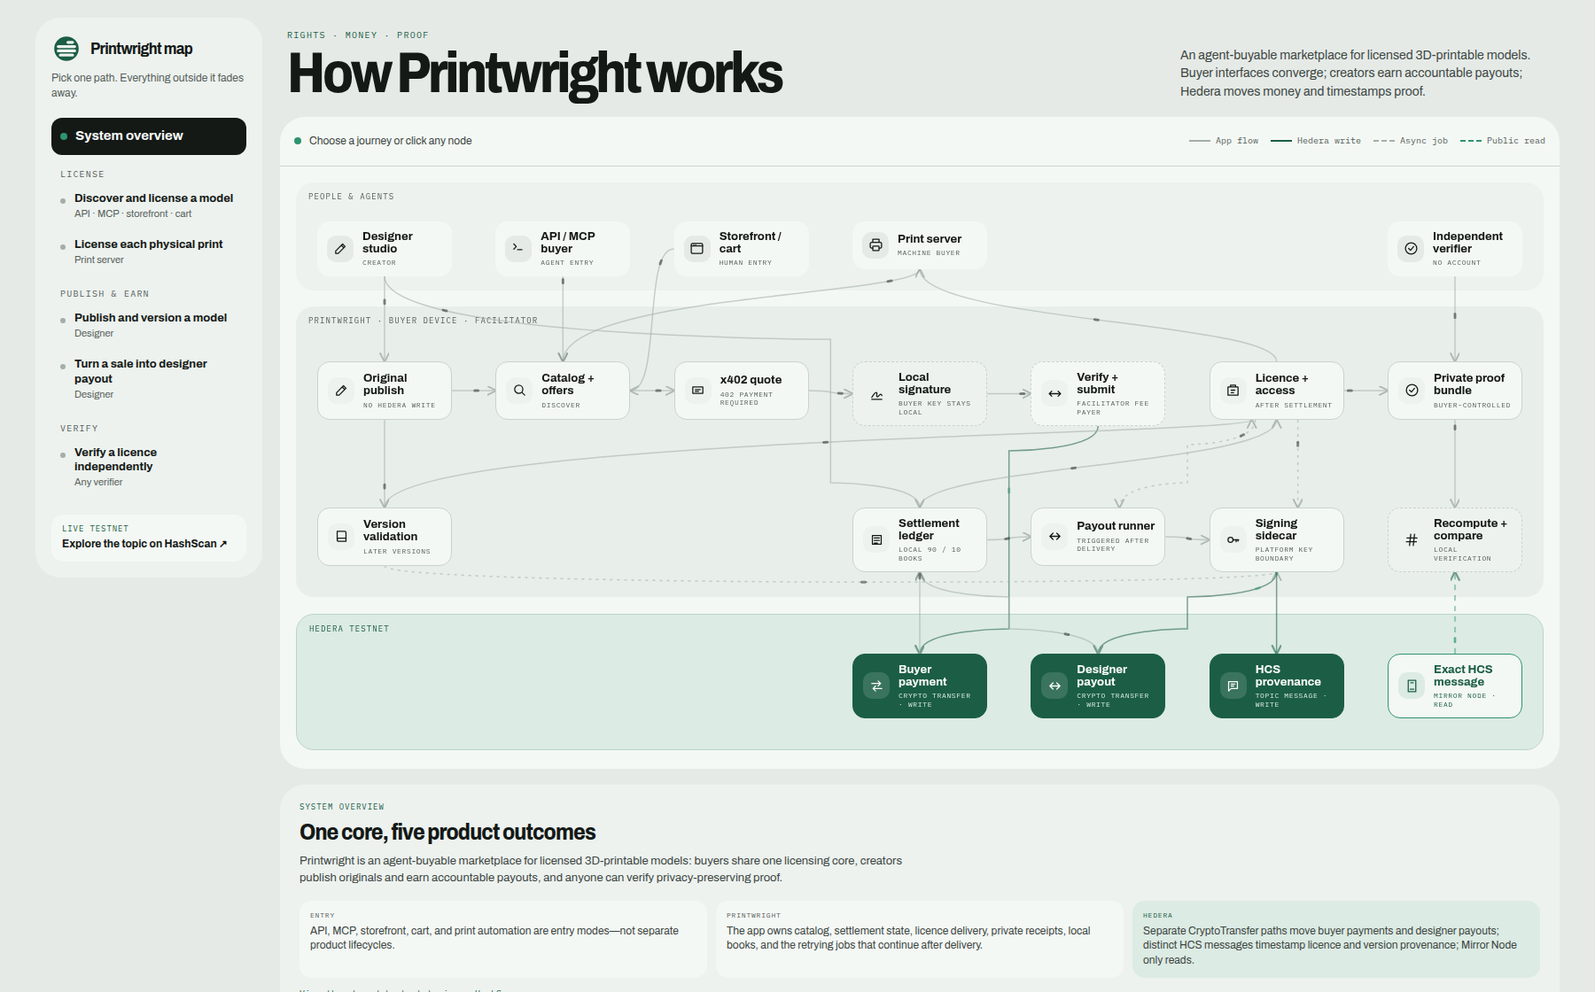
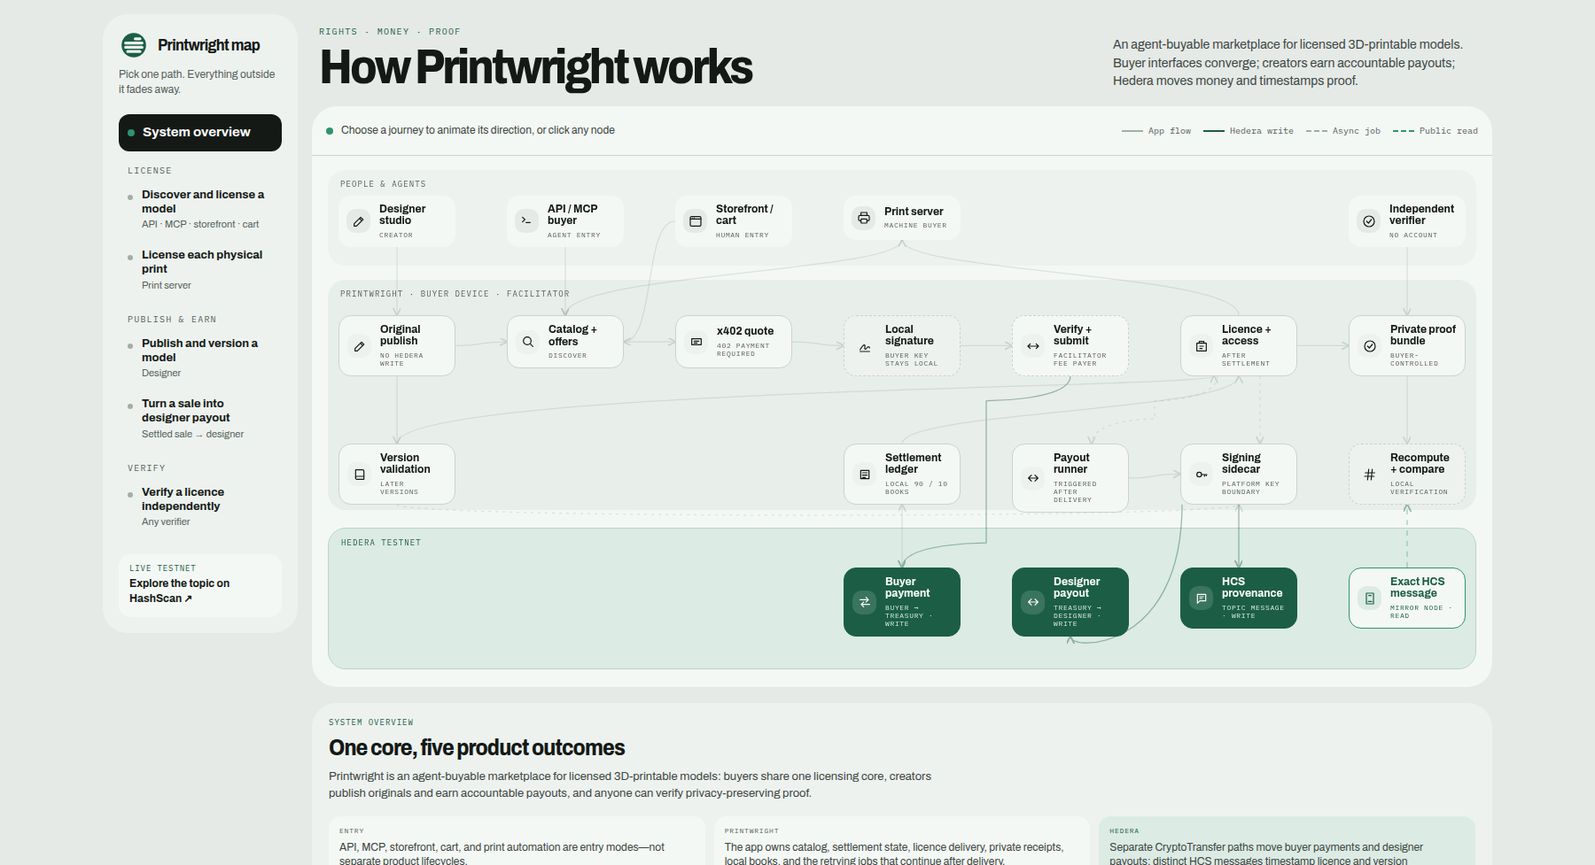
docs: fix journey map layout and motion

diff --git a/docs/journey-map.html b/docs/journey-map.html
@@ -79,21 +79,21 @@
 
   .shell {
     display: grid;
-    grid-template-columns: 256px minmax(0, 1fr);
-    gap: 20px;
-    width: min(1760px, 100%);
+    grid-template-columns: 220px minmax(0, 1fr);
+    gap: 16px;
+    width: min(1600px, 100%);
     min-height: 100vh;
     margin: 0 auto;
-    padding: 20px;
+    padding: 16px;
   }
 
   .rail {
     position: sticky;
-    top: 20px;
+    top: 16px;
     align-self: start;
     display: flex;
     flex-direction: column;
-    max-height: calc(100vh - 40px);
+    max-height: calc(100vh - 32px);
     overflow-y: auto;
     padding: 18px;
     background: var(--inset);
@@ -273,7 +273,7 @@
   h1 {
     max-width: 760px;
     margin: 0;
-    font-size: clamp(34px, 4.4vw, 64px);
+    font-size: clamp(32px, 3.8vw, 56px);
     font-weight: 770;
     font-stretch: 86%;
     line-height: 0.95;
@@ -364,8 +364,8 @@
   .map-canvas {
     position: relative;
     width: 100%;
-    min-width: 1400px;
-    height: 680px;
+    min-width: 1088px;
+    height: 600px;
     isolation: isolate;
   }
 
@@ -387,20 +387,20 @@
   }
 
   .lane.actors {
-    top: 18px;
-    height: 122px;
+    top: 16px;
+    height: 108px;
     background: var(--inset);
   }
 
   .lane.app {
-    top: 158px;
-    height: 328px;
+    top: 140px;
+    height: 260px;
     background: #e8eeea;
   }
 
   .lane.hedera {
-    top: 505px;
-    height: 154px;
+    top: 420px;
+    height: 160px;
     background: var(--chain-soft);
     border: 1px solid #b9d5c8;
   }
@@ -449,15 +449,26 @@
     opacity: 1;
   }
 
+  .map-canvas.is-overview .edge {
+    stroke-width: 1.25;
+    opacity: 0.3;
+  }
+
+  .map-canvas.is-overview .edge.chain,
+  .map-canvas.is-overview .edge.read {
+    opacity: 0.42;
+  }
+
   .flow-overlay {
     fill: none;
     stroke: var(--text);
     stroke-width: 3;
     stroke-linecap: round;
-    opacity: 0.48;
+    opacity: 0;
     pointer-events: none;
     vector-effect: non-scaling-stroke;
     animation: edge-flow var(--flow-duration, 1800ms) linear infinite;
+    animation-play-state: paused;
     transition: opacity 180ms ease, stroke-width 180ms ease;
   }
 
@@ -474,6 +485,7 @@
   .flow-overlay.is-active {
     stroke-width: 3.5;
     opacity: 0.94;
+    animation-play-state: running;
   }
 
   @keyframes edge-flow {
@@ -491,9 +503,9 @@
     display: flex;
     align-items: center;
     gap: 10px;
-    width: 152px;
-    min-height: 66px;
-    padding: 10px 11px;
+    width: 132px;
+    min-height: 60px;
+    padding: 9px;
     background: var(--card);
     border: 1px solid var(--hairline);
     border-radius: var(--radius-sm);
@@ -508,7 +520,7 @@
   }
 
   .map-node.actor {
-    min-height: 54px;
+    min-height: 50px;
     border: 0;
   }
 
@@ -552,8 +564,8 @@
 
   .node-icon {
     display: grid;
-    width: 30px;
-    height: 30px;
+    width: 27px;
+    height: 27px;
     flex: 0 0 auto;
     place-items: center;
     background: var(--inset);
@@ -573,8 +585,8 @@
   }
 
   .node-icon svg {
-    width: 17px;
-    height: 17px;
+    width: 16px;
+    height: 16px;
     fill: none;
     stroke: currentColor;
     stroke-width: 1.8;
@@ -588,7 +600,7 @@
 
   .node-title {
     display: block;
-    font-size: 13px;
+    font-size: 12px;
     font-weight: 720;
     line-height: 1.1;
   }
@@ -611,9 +623,9 @@
   }
 
   .inspector {
-    min-height: 178px;
+    min-height: 160px;
     margin-top: 18px;
-    padding: 20px 22px;
+    padding: 17px 19px;
     background: var(--inset);
     border-radius: var(--radius-lg);
   }
@@ -752,7 +764,7 @@
     .flow-overlay { animation: none; opacity: 0; }
   }
 
-  @media (max-width: 980px) {
+  @media (max-width: 1320px) {
     .shell {
       display: block;
       padding: 12px;
@@ -886,7 +898,7 @@
 
     <section class="map-panel" aria-label="Interactive system map">
       <div class="map-topbar">
-        <div class="map-instruction">Choose a journey or click any node</div>
+        <div class="map-instruction">Choose a journey to animate its direction, or click any node</div>
         <div class="legend" aria-label="Map legend">
           <span class="legend-item"><span class="legend-line"></span> App flow</span>
           <span class="legend-item"><span class="legend-line chain"></span> Hedera write</span>
@@ -949,38 +961,37 @@
   };
 
   const NODES = [
-    { id: "designer", col: 0, y: 62, title: "Designer studio", meta: "CREATOR", icon: "designer", kind: "actor", summary: "Designers publish original printable bundles, validate later versions, inspect sales, and receive grouped payouts.", code: "app/controllers/designer/" },
-    { id: "agent", col: 1, y: 62, title: "API / MCP buyer", meta: "AGENT ENTRY", icon: "terminal", kind: "actor", summary: "API clients and MCP assistants enter the same purchase backend. MCP returns the licence, files, verification link, and covered-update capability.", code: "mcp/server.mjs · client/index.js" },
-    { id: "human", col: 2, y: 62, title: "Storefront / cart", meta: "HUMAN ENTRY", icon: "browser", kind: "actor", summary: "A browser buyer can buy one offer or approve one cart total; both call the shared download or batch API.", code: "checkout_controller.js · BatchesController" },
-    { id: "printer", col: 3, y: 62, title: "Print server", meta: "MACHINE BUYER", icon: "printer", kind: "actor", summary: "The print-job helper runs one commercial-unit purchase for each requested physical unit before it starts that job.", code: "scripts/print-job.mjs" },
-    { id: "verifier", col: 6, y: 62, title: "Independent verifier", meta: "NO ACCOUNT", icon: "verify", kind: "actor", summary: "Any holder of a disclosed proof bundle can check it without an account or a Printwright signing key.", code: "verifier/index.js · Certificates::MirrorCheck" },
+    { id: "designer", col: 0, y: 45, title: "Designer studio", meta: "CREATOR", icon: "designer", kind: "actor", summary: "Designers publish original printable bundles, validate later versions, inspect sales, and receive grouped payouts.", code: "app/controllers/designer/" },
+    { id: "agent", col: 1, y: 45, title: "API / MCP buyer", meta: "AGENT ENTRY", icon: "terminal", kind: "actor", summary: "API clients and MCP assistants enter the same purchase backend. MCP returns the licence, files, verification link, and covered-update capability.", code: "mcp/server.mjs · client/index.js" },
+    { id: "human", col: 2, y: 45, title: "Storefront / cart", meta: "HUMAN ENTRY", icon: "browser", kind: "actor", summary: "A browser buyer can buy one offer or approve one cart total; both call the shared download or batch API.", code: "checkout_controller.js · BatchesController" },
+    { id: "printer", col: 3, y: 45, title: "Print server", meta: "MACHINE BUYER", icon: "printer", kind: "actor", summary: "The print-job helper runs one commercial-unit purchase for each requested physical unit before it starts that job.", code: "scripts/print-job.mjs" },
+    { id: "verifier", col: 6, y: 45, title: "Independent verifier", meta: "NO ACCOUNT", icon: "verify", kind: "actor", summary: "Any holder of a disclosed proof bundle can check it without an account or a Printwright signing key.", code: "verifier/index.js · Certificates::MirrorCheck" },
 
-    { id: "workbench", col: 0, y: 220, title: "Original publish", meta: "NO HEDERA WRITE", icon: "designer", summary: "The designer uploads geometry and imagery, sets prices, accepts the ownership warranty, and publishes the original listing after local review.", code: "Designer::ModelsController · Models::PublishReview" },
-    { id: "catalog", col: 1, y: 220, title: "Catalog + offers", meta: "DISCOVER", icon: "search", summary: "Published models, printability facts, prices, and machine-readable personal or commercial-unit offers are public.", code: "StorefrontController · Api::V1::ModelsController" },
-    { id: "x402", col: 2, y: 220, title: "x402 quote", meta: "402 PAYMENT REQUIRED", icon: "quote", summary: "The protected single or batch resource returns exact HBAR or USDC requirements payable to the treasury.", code: "X402::Requirements · DownloadsController · BatchesController" },
-    { id: "signature", col: 3, y: 220, title: "Local signature", meta: "BUYER KEY STAYS LOCAL", icon: "signature", kind: "local", summary: "The buyer signs the exact Hedera TransferTransaction locally. Printwright never receives the buyer's private key.", code: "client/index.js · checkout_controller.js" },
-    { id: "facilitator", col: 4, y: 220, title: "Verify + submit", meta: "FACILITATOR FEE PAYER", icon: "bridge", kind: "bridge", summary: "The facilitator verifies the signed x402 payload, adds its separate fee-payer signature, submits it, and returns the result.", code: "FacilitatorClient · selfhost-facilitator/server.mjs" },
-    { id: "delivery", col: 5, y: 220, title: "Licence + access", meta: "AFTER SETTLEMENT", icon: "delivery", summary: "Printwright returns each licence, certificate, proof bundle, first file grant, durable receipt, and a separate updates capability. The receipt later authorizes fresh grants.", code: "DownloadsController#deliver · BatchesController#deliver · ModelVersionsController" },
-    { id: "proof", col: 6, y: 220, title: "Private proof bundle", meta: "BUYER-CONTROLLED", icon: "verify", summary: "The bundle contains the certificate, nonce, exact terms, and anchor state. It may say minting until the asynchronous HCS job succeeds.", code: "Certificates::Builder · Certificates::Bundle" },
+    { id: "workbench", col: 0, y: 180, title: "Original publish", meta: "NO HEDERA WRITE", icon: "designer", summary: "The designer uploads geometry and imagery, sets prices, accepts the ownership warranty, and publishes the original listing after local review.", code: "Designer::ModelsController · Models::PublishReview" },
+    { id: "catalog", col: 1, y: 180, title: "Catalog + offers", meta: "DISCOVER", icon: "search", summary: "Published models, printability facts, prices, and machine-readable personal or commercial-unit offers are public.", code: "StorefrontController · Api::V1::ModelsController" },
+    { id: "x402", col: 2, y: 180, title: "x402 quote", meta: "402 PAYMENT REQUIRED", icon: "quote", summary: "The protected single or batch resource returns exact HBAR or USDC requirements payable to the treasury.", code: "X402::Requirements · DownloadsController · BatchesController" },
+    { id: "signature", col: 3, y: 180, title: "Local signature", meta: "BUYER KEY STAYS LOCAL", icon: "signature", kind: "local", summary: "The buyer signs the exact Hedera TransferTransaction locally. Printwright never receives the buyer's private key.", code: "client/index.js · checkout_controller.js" },
+    { id: "facilitator", col: 4, y: 180, title: "Verify + submit", meta: "FACILITATOR FEE PAYER", icon: "bridge", kind: "bridge", summary: "The facilitator verifies the signed x402 payload, adds its separate fee-payer signature, submits it, and returns the result.", code: "FacilitatorClient · selfhost-facilitator/server.mjs" },
+    { id: "delivery", col: 5, y: 180, title: "Licence + access", meta: "AFTER SETTLEMENT", icon: "delivery", summary: "Printwright returns each licence, certificate, proof bundle, first file grant, durable receipt, and a separate updates capability. The receipt later authorizes fresh grants.", code: "DownloadsController#deliver · BatchesController#deliver · ModelVersionsController" },
+    { id: "proof", col: 6, y: 180, title: "Private proof bundle", meta: "BUYER-CONTROLLED", icon: "verify", summary: "The bundle contains the certificate, nonce, exact terms, and anchor state. It may say minting until the asynchronous HCS job succeeds.", code: "Certificates::Builder · Certificates::Bundle" },
 
-    { id: "version", col: 0, y: 385, title: "Version validation", meta: "LATER VERSIONS", icon: "library", summary: "A later bundle and changelog are analyzed first. Only a deliverable version queues its separate provenance event.", code: "AnalyzeModelVersionMeshJob · ModelVersionAnchorJob" },
-    { id: "sales", col: 3, y: 385, title: "Settlement ledger", meta: "LOCAL 90 / 10 BOOKS", icon: "ledger", summary: "The settled transition writes immutable designer-share and platform-fee rows before delivery. A successful payout later adds rows carrying its transaction ID.", code: "Purchase#transition_to! · LedgerEntry" },
-    { id: "payout", col: 4, y: 385, title: "Payout runner", meta: "TRIGGERED AFTER DELIVERY", icon: "payout", summary: "The delivery-triggered job or later sweep keeps unverified destinations owed, then groups eligible balances by designer into one transfer per asset.", code: "DesignerPayoutJob · Ledger::PayoutRunner" },
-    { id: "sidecar", col: 5, y: 385, title: "Signing sidecar", meta: "PLATFORM KEY BOUNDARY", icon: "key", summary: "The sidecar uses platform keys to create the topic, submit HCS messages, and sign treasury payouts. Buyer payment and facilitator signing stay outside it.", code: "SidecarClient · sidecar/app.mjs · sidecar/hedera.mjs" },
-    { id: "localhash", col: 6, y: 385, title: "Recompute + compare", meta: "LOCAL VERIFICATION", icon: "hash", kind: "local", summary: "The verifier validates the bundle, canonicalizes the private certificate, recomputes SHA-256, fetches one exact public message, and compares commitments.", code: "verifier/index.js · RFC 8785 JCS" },
+    { id: "version", col: 0, y: 325, title: "Version validation", meta: "LATER VERSIONS", icon: "library", summary: "A later bundle and changelog are analyzed first. Only a deliverable version queues its separate provenance event.", code: "AnalyzeModelVersionMeshJob · ModelVersionAnchorJob" },
+    { id: "sales", col: 3, y: 325, title: "Settlement ledger", meta: "LOCAL 90 / 10 BOOKS", icon: "ledger", summary: "The settled transition writes immutable designer-share and platform-fee rows before delivery. A successful payout later adds rows carrying its transaction ID.", code: "Purchase#transition_to! · LedgerEntry" },
+    { id: "payout", col: 4, y: 325, title: "Payout runner", meta: "TRIGGERED AFTER DELIVERY", icon: "payout", summary: "The delivery-triggered job or later sweep keeps unverified destinations owed, then groups eligible balances by designer into one transfer per asset.", code: "DesignerPayoutJob · Ledger::PayoutRunner" },
+    { id: "sidecar", col: 5, y: 325, title: "Signing sidecar", meta: "PLATFORM KEY BOUNDARY", icon: "key", summary: "The sidecar uses platform keys to create the topic, submit HCS messages, and sign treasury payouts. Buyer payment and facilitator signing stay outside it.", code: "SidecarClient · sidecar/app.mjs · sidecar/hedera.mjs" },
+    { id: "localhash", col: 6, y: 325, title: "Recompute + compare", meta: "LOCAL VERIFICATION", icon: "hash", kind: "local", summary: "The verifier validates the bundle, canonicalizes the private certificate, recomputes SHA-256, fetches one exact public message, and compares commitments.", code: "verifier/index.js · RFC 8785 JCS" },
 
-    { id: "settle", col: 3, y: 550, title: "Buyer payment", meta: "CRYPTO TRANSFER · WRITE", icon: "transfer", kind: "hedera-write", summary: "One confirmed HBAR or USDC CryptoTransfer moves purchase value from the buyer to the treasury.", code: "CryptoTransfer · x402 exact scheme" },
-    { id: "payouttx", col: 4, y: 550, title: "Designer payout", meta: "CRYPTO TRANSFER · WRITE", icon: "payout", kind: "hedera-write", summary: "A later, separate HBAR or USDC CryptoTransfer moves grouped owed value from the treasury to verified designer accounts.", code: "TransferTransaction · sidecar/hedera.mjs#payout" },
-    { id: "hcs", col: 5, y: 550, title: "HCS provenance", meta: "TOPIC MESSAGE · WRITE", icon: "topic", kind: "hedera-write", summary: "The current licence and version pipelines write an opaque commitment envelope or a separate pwv-1 event—never the private certificate.", code: "TopicMessageSubmitTransaction · 0.0.9585069" },
-    { id: "mirror", col: 6, y: 550, title: "Exact HCS message", meta: "MIRROR NODE · READ", icon: "mirror", kind: "hedera-read", summary: "The verifier derives a trusted public URL and GETs the exact topic and sequence. Mirror Node never submits a transaction.", code: "GET /api/v1/topics/{topic}/messages/{sequence}" }
+    { id: "settle", col: 3, y: 465, title: "Buyer payment", meta: "BUYER → TREASURY · WRITE", icon: "transfer", kind: "hedera-write", summary: "One confirmed HBAR or USDC CryptoTransfer moves purchase value from the buyer to the treasury.", code: "CryptoTransfer · x402 exact scheme" },
+    { id: "payouttx", col: 4, y: 465, title: "Designer payout", meta: "TREASURY → DESIGNER · WRITE", icon: "payout", kind: "hedera-write", summary: "A later, separate HBAR or USDC CryptoTransfer moves grouped owed value from the treasury to verified designer accounts.", code: "TransferTransaction · sidecar/hedera.mjs#payout" },
+    { id: "hcs", col: 5, y: 465, title: "HCS provenance", meta: "TOPIC MESSAGE · WRITE", icon: "topic", kind: "hedera-write", summary: "The current licence and version pipelines write an opaque commitment envelope or a separate pwv-1 event—never the private certificate.", code: "TopicMessageSubmitTransaction · 0.0.9585069" },
+    { id: "mirror", col: 6, y: 465, title: "Exact HCS message", meta: "MIRROR NODE · READ", icon: "mirror", kind: "hedera-read", summary: "The verifier derives a trusted public URL and GETs the exact topic and sequence. Mirror Node never submits a transaction.", code: "GET /api/v1/topics/{topic}/messages/{sequence}" }
   ];
 
   const EDGES = [
     { id: "agent-catalog", from: "agent", to: "catalog" },
     { id: "human-catalog", from: "human", to: "catalog" },
-    { id: "printer-catalog", from: "printer", to: "catalog", route: "corridor", channelY: 145 },
+    { id: "printer-catalog", from: "printer", to: "catalog", route: "corridor", channelY: 132 },
     { id: "designer-workbench", from: "designer", to: "workbench" },
-    { id: "designer-sales", from: "designer", to: "sales", route: "dogleg", channelY: 195, gapAfter: 2 },
     { id: "verifier-proof", from: "verifier", to: "proof" },
     { id: "workbench-catalog", from: "workbench", to: "catalog" },
     { id: "catalog-x402", from: "catalog", to: "x402" },
@@ -990,16 +1001,14 @@
     { id: "settle-sales", from: "settle", to: "sales" },
     { id: "sales-delivery", from: "sales", to: "delivery", route: "rise", channel: 0.52 },
     { id: "delivery-proof", from: "delivery", to: "proof" },
-    { id: "delivery-printer", from: "delivery", to: "printer", route: "corridor", channelY: 175 },
+    { id: "delivery-printer", from: "delivery", to: "printer", route: "corridor", channelY: 132 },
     { id: "delivery-sidecar", from: "delivery", to: "sidecar", type: "async", startOffsetX: 24, endOffsetX: 24 },
     { id: "delivery-payout", from: "delivery", to: "payout", type: "async", route: "gap", gapAfter: 4, startOffsetX: -24, endOffsetX: 24 },
-    { id: "sales-payout", from: "sales", to: "payout" },
     { id: "payout-sidecar", from: "payout", to: "sidecar" },
-    { id: "sidecar-payouttx", from: "sidecar", to: "payouttx", type: "chain", route: "gap", gapAfter: 4 },
-    { id: "payouttx-sales", from: "payouttx", to: "sales", route: "gap", gapAfter: 3 },
+    { id: "sidecar-payouttx", from: "sidecar", to: "payouttx", type: "chain", route: "under", channelY: 560, startOffsetX: -64 },
     { id: "workbench-version", from: "workbench", to: "version" },
     { id: "version-delivery", from: "version", to: "delivery", route: "rise", channel: 0.18, endOffsetX: -28 },
-    { id: "version-sidecar", from: "version", to: "sidecar", type: "async", route: "under", channelY: 474 },
+    { id: "version-sidecar", from: "version", to: "sidecar", type: "async", route: "under", channelY: 410 },
     { id: "sidecar-hcs", from: "sidecar", to: "hcs", type: "chain" },
     { id: "proof-localhash", from: "proof", to: "localhash" },
     { id: "mirror-localhash", from: "mirror", to: "localhash", type: "read" }
@@ -1049,14 +1058,14 @@
       id: "payout",
       category: "Publish & earn",
       title: "Turn a sale into designer payout",
-      actor: "Designer",
-      summary: "A treasury sale creates an accountable local obligation, then a separate background path pays eligible designer balances.",
-      entry: "The designer can inspect gross value, the 90/10 split, amount owed, and the eventual payout transaction.",
-      app: "Settlement creates immutable split rows and verified destinations are eligible. Delivery triggers the checkout payout job; the runner groups and records the result.",
-      hedera: "Buyer payment and designer payout are separate CryptoTransfers. The sidecar signs only the later treasury-to-designer transfer.",
+      actor: "Settled sale → designer",
+      summary: "A buyer's settled purchase creates an accountable local obligation, then a separate background path pays eligible designer balances.",
+      entry: "A completed buyer payment—not an action from the designer—starts this path.",
+      app: "Settlement creates immutable split rows. Delivery triggers the payout job; the runner groups eligible obligations, and records the successful transfer ID back in the local books.",
+      hedera: "Buyer → treasury and treasury → designer are separate CryptoTransfers. The sidecar signs only the later payout.",
       proof: ["View USDC payout on HashScan", "https://hashscan.io/testnet/transaction/0.0.9067781@1784242883.124267302"],
-      nodes: ["designer", "catalog", "x402", "signature", "facilitator", "settle", "sales", "delivery", "payout", "sidecar", "payouttx"],
-      edges: ["designer-sales", "catalog-x402", "x402-signature", "signature-facilitator", "facilitator-settle", "settle-sales", "sales-delivery", "delivery-payout", "sales-payout", "payout-sidecar", "sidecar-payouttx", "payouttx-sales"]
+      nodes: ["catalog", "x402", "signature", "facilitator", "settle", "sales", "delivery", "payout", "sidecar", "payouttx"],
+      edges: ["catalog-x402", "x402-signature", "signature-facilitator", "facilitator-settle", "settle-sales", "sales-delivery", "delivery-payout", "payout-sidecar", "sidecar-payouttx"]
     },
     {
       id: "verify",
@@ -1092,8 +1101,8 @@
   const nav = document.getElementById("journey-nav");
   const inspector = document.getElementById("inspector");
   const GRID_COLUMNS = 7;
-  const GRID_MARGIN = 42;
-  const NODE_WIDTH = 152;
+  const GRID_MARGIN = 30;
+  const NODE_WIDTH = 132;
   let columnPositions = [];
   let activeJourney = OVERVIEW;
   let inspectedNode = null;
@@ -1368,6 +1377,7 @@
     const overview = activeJourney.id === "overview";
     const activeNodes = new Set(activeJourney.nodes);
     const activeEdges = new Set(activeJourney.edges);
+    mapCanvas.classList.toggle("is-overview", overview);
 
     nodeLayer.querySelectorAll(".map-node").forEach(node => {
       const active = activeNodes.has(node.dataset.node);
@@ -1390,7 +1400,7 @@
 
     edgeLayer.querySelectorAll(".flow-overlay").forEach(path => {
       const active = activeEdges.has(path.dataset.flow);
-      path.classList.toggle("is-muted", !overview && !active);
+      path.classList.toggle("is-muted", overview || !active);
       path.classList.toggle("is-active", !overview && active);
     });
   }

diff --git a/docs/JOURNEYS.md b/docs/JOURNEYS.md
@@ -35,7 +35,7 @@ one licence, proof bundle, and asynchronous HCS commitment per item.
 | Discover and license a model | API, MCP, storefront, or cart → shared purchase core → paid licence/access → private proof → asynchronous opaque HCS commitment |
 | License each physical print | One `commercial_unit` purchase per requested unit → paid licence/files → print may start; that unit's HCS commitment continues asynchronously |
 | Publish and version a model | Original review → catalog, with no Hedera write; deliverable later version → covered owner access + asynchronous sidecar submission → `pwv-1` HCS event |
-| Turn a sale into designer payout | Buyer settlement → local split ledger; paid delivery triggers payout runner → signing sidecar → separate treasury-to-designer CryptoTransfer → payout ledger record |
+| Turn a sale into designer payout | Buyer settlement → local split ledger → paid delivery → payout runner → signing sidecar → separate treasury-to-designer CryptoTransfer; the successful transfer ID is recorded locally |
 | Verify a licence independently | Buyer-disclosed bundle → local JCS/SHA-256 recomputation → exact topic/sequence GET from Mirror Node → exact commitment comparison |
 
 Receipts, fresh download grants, and covered model updates are continuations of
@@ -63,7 +63,8 @@ count; it publishes only the opaque commitment envelope.
 - Dashed grey lines are asynchronous jobs that continue after their prerequisite.
 - Solid green lines write value or provenance to Hedera.
 - Dashed green lines are public Mirror Node reads.
-- Moving dots show direction; the underlying line style still identifies the operation.
+- The overview is intentionally static. Choose an outcome to animate only that path.
+- Moving dots then show direction; the underlying line style still identifies the operation.
 - Select any node for its concise responsibility and code boundary.
 
 ## Public testnet evidence
